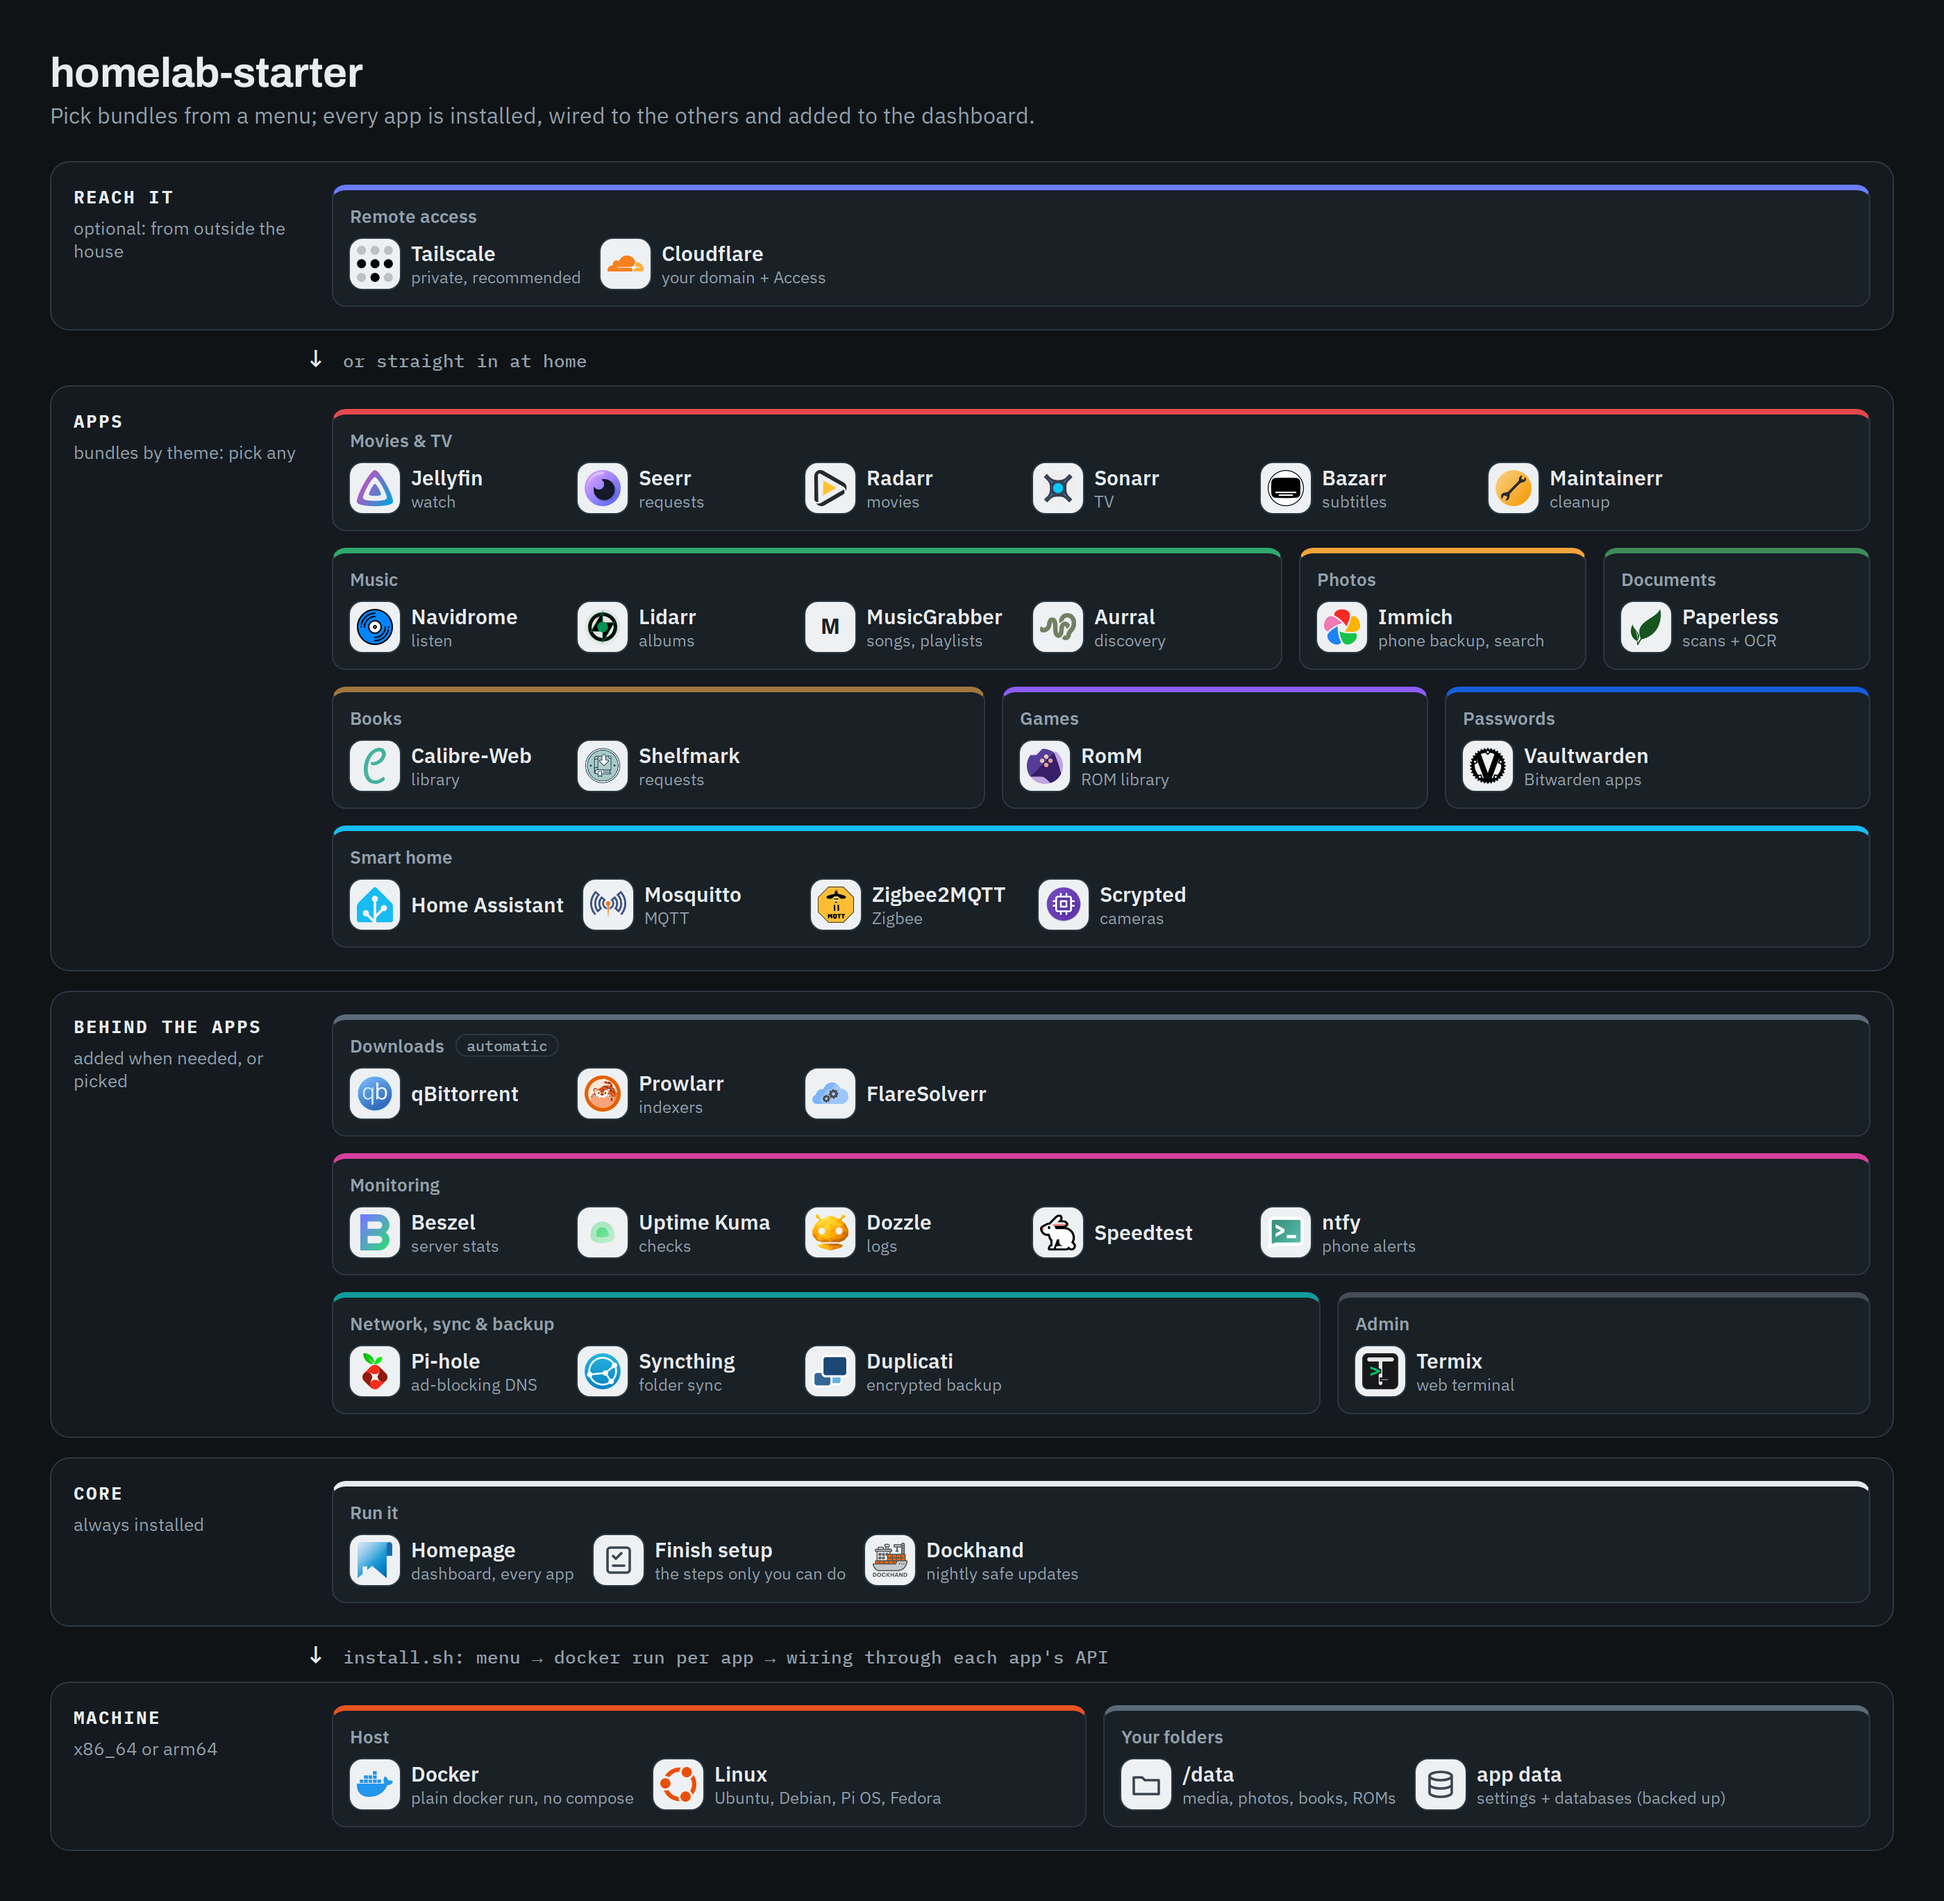
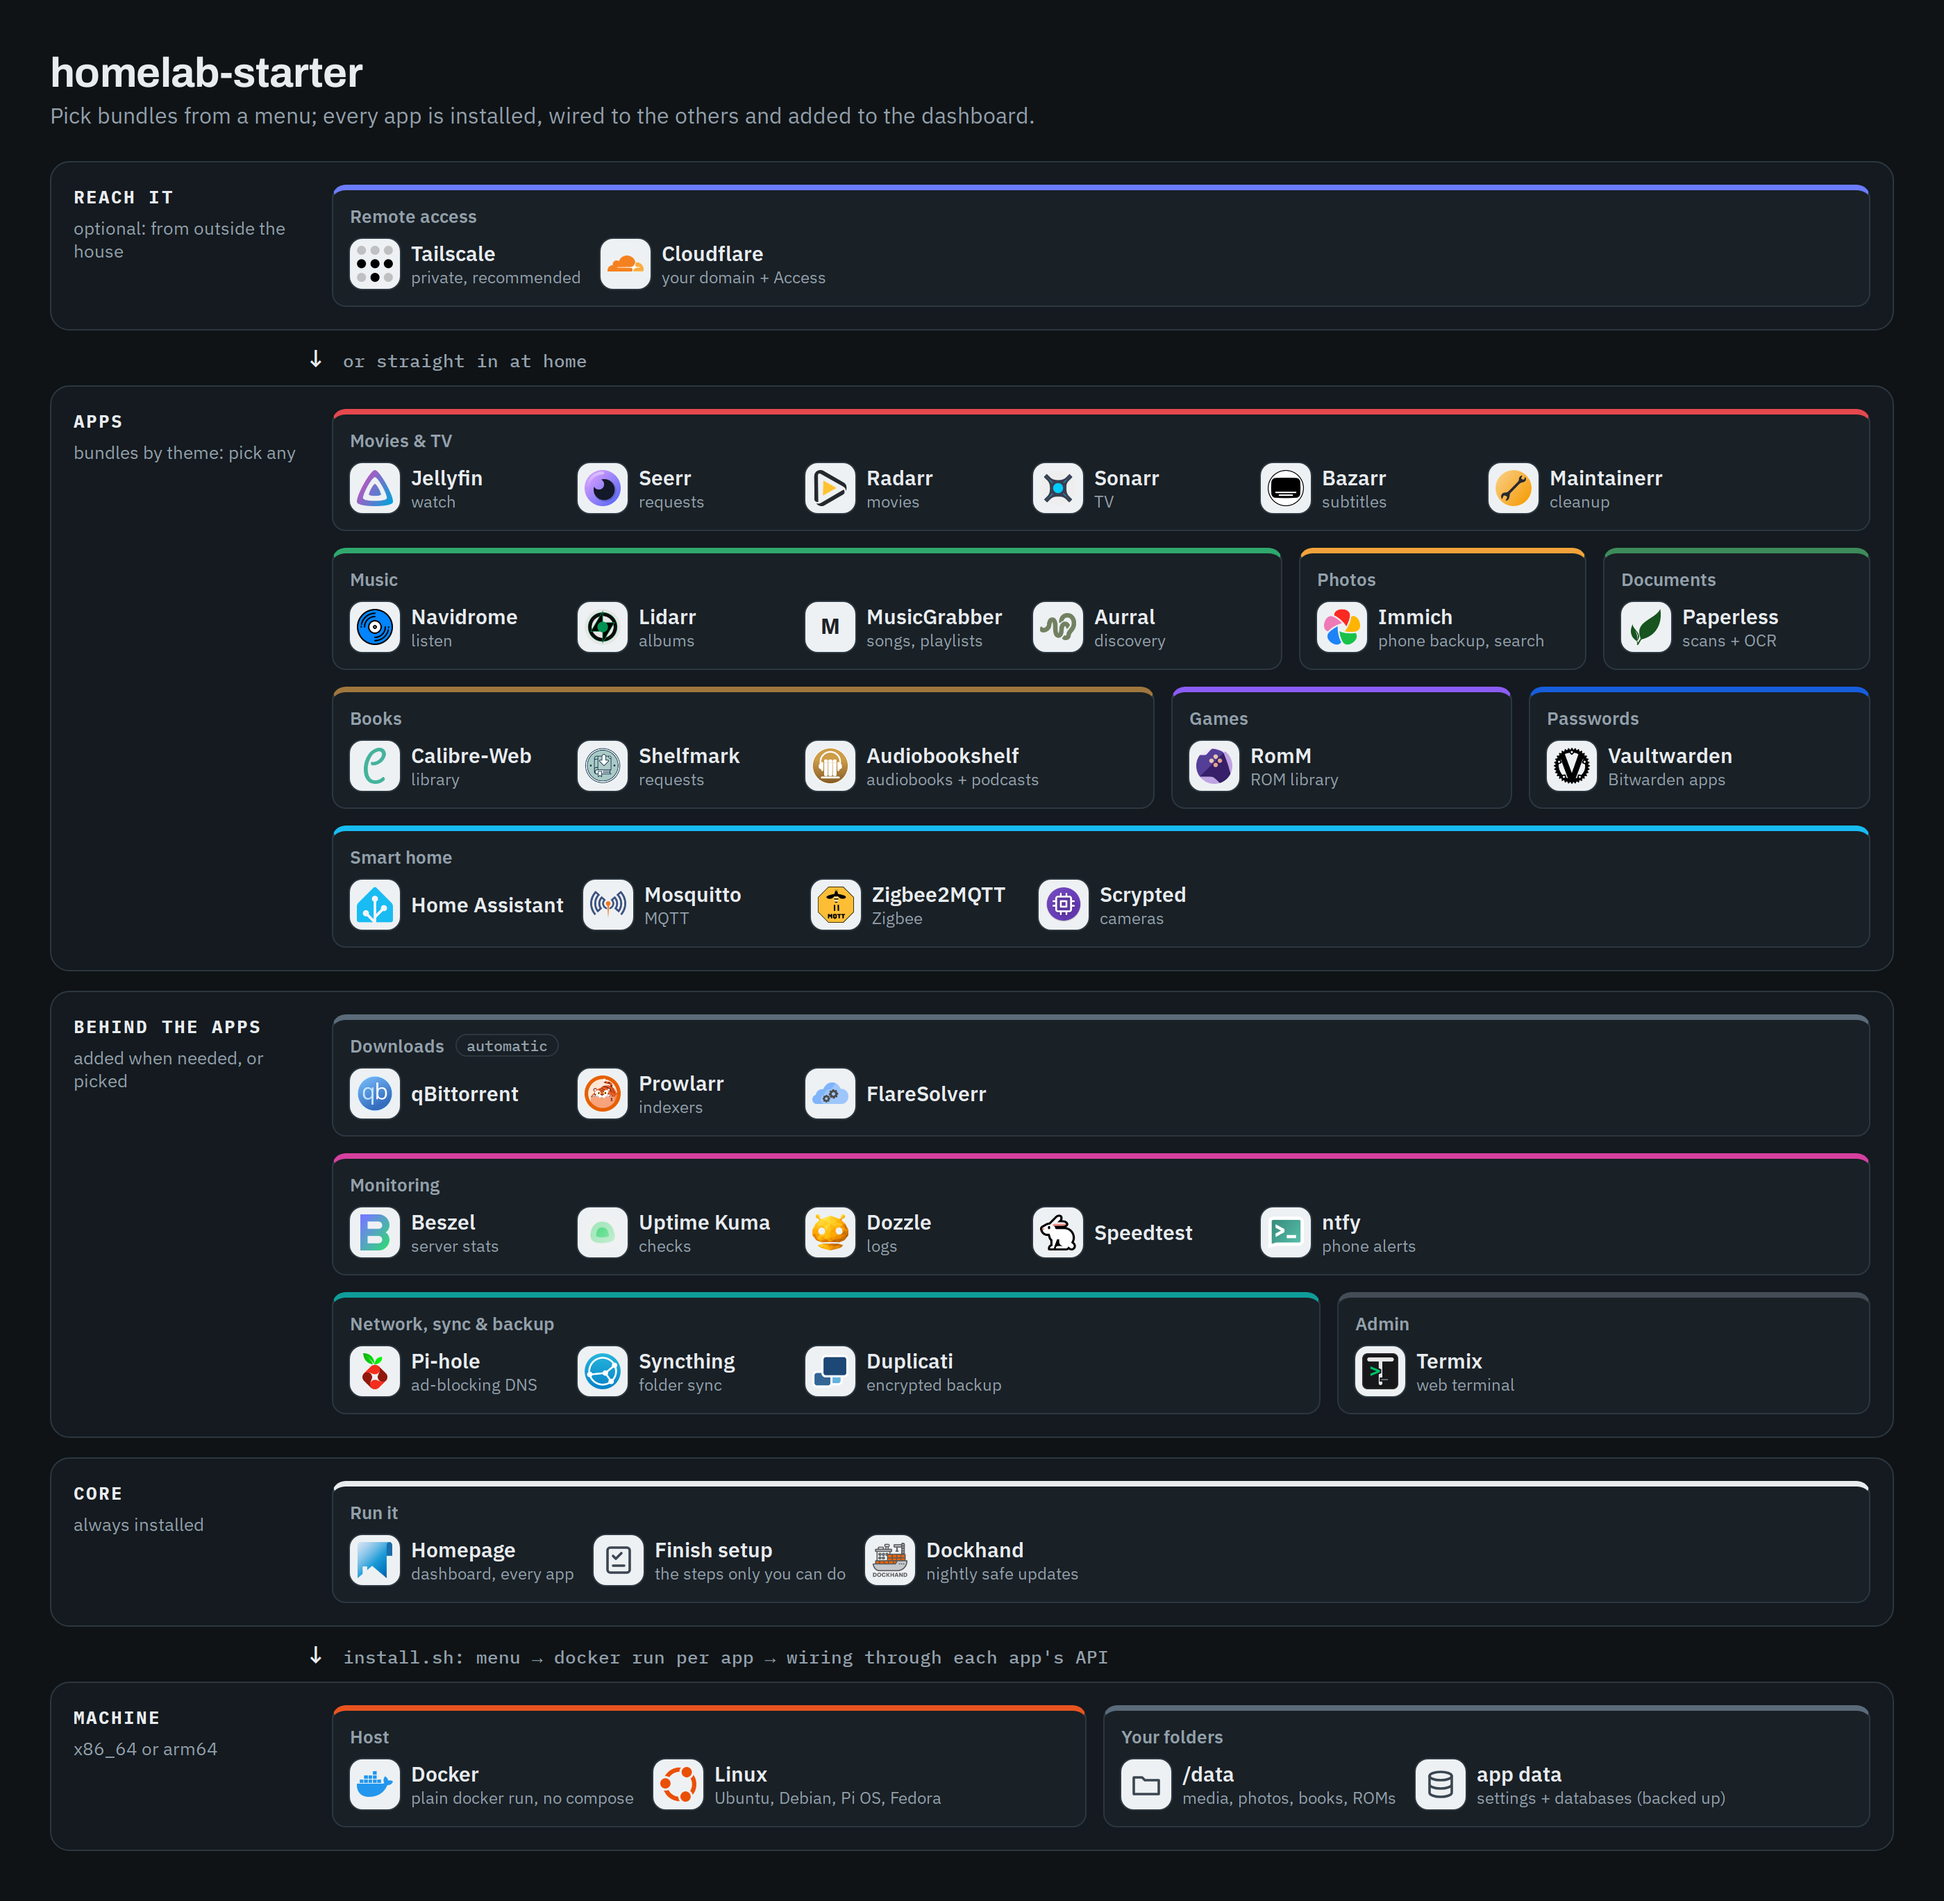
Audiobooks & podcasts bundle: Audiobookshelf
New bundle 'audiobooks' (175-audiobookshelf): DATA_AUDIOBOOKS / DATA_PODCASTS (default $DATA/audiobooks, $DATA/podcasts),
wiring creates the admin and an Audiobooks + a Podcasts library, folders kept under $DATA_MUSIC are added to Navidrome's
.ndignore, Duplicati skips its cache/streams/logs. README table + diagram.

Claude-Session: https://claude.ai/code/session_01VbVkPgrMEM92aAwtS942sv

Changed region(s): [[0.4039, 0.3725, 0.6525, 0.4346], [0.7457, 0.3415, 0.87, 0.4346]]

diff --git a/wire/audiobookshelf.py b/wire/audiobookshelf.py
@@ -1,0 +1,20 @@
+"""Audiobookshelf: create the admin (root) account on first start, then an Audiobooks and a Podcasts library."""
+from hsapi import E, req, wait, note, die
+B = 'http://localhost:13378'
+wait(B + '/healthcheck')
+code, st = req('GET', B + '/status')
+if not (st or {}).get('isInit'):
+    code, r = req('POST', B + '/init', {'newRoot': {'username': E['ADMIN_USER'], 'password': E['ADMIN_PASSWORD']}})
+    if code != 200: die(f'init -> HTTP {code}: {str(r)[:200]}')
+    note('admin account created')
+code, r = req('POST', B + '/login', {'username': E['ADMIN_USER'], 'password': E['ADMIN_PASSWORD']})
+if code != 200: note('admin password changed in the app: libraries left as they are'); raise SystemExit(0)
+u = r['user']; H = {'Authorization': 'Bearer ' + (u.get('accessToken') or u['token'])}
+code, libs = req('GET', B + '/api/libraries', headers=H)
+have = {l['name'] for l in (libs or {}).get('libraries', [])}
+for name, path, kind, icon in (('Audiobooks', E['DATA_AUDIOBOOKS'], 'book', 'audiobookshelf'),
+                               ('Podcasts', E['DATA_PODCASTS'], 'podcast', 'podcast')):
+    if name in have: continue
+    code, r = req('POST', B + '/api/libraries', {'name': name, 'folders': [{'fullPath': path}], 'icon': icon,
+                                                 'mediaType': kind, 'provider': 'itunes' if kind == 'podcast' else 'google'}, H)
+    note(f'library {name} -> {path}' if code == 200 else f'library {name}: HTTP {code} {str(r)[:150]}')

diff --git a/wire/duplicati.py b/wire/duplicati.py
@@ -13,7 +13,8 @@ if any(j['Backup']['Name'] == 'App settings' for j in jobs or []):
 pp = E.get('BACKUP_PASSPHRASE') or secrets.token_urlsafe(24)
 save_secret('BACKUP_PASSPHRASE', pp)
 src = '/source' + E['APPDATA'].rstrip('/') + '/'
-excl = ['paperless-db', 'immich-db', 'romm-db', 'jellyfin/cache', 'immich-ml', 'romm/redis', 'paperless-redis', 'immich-redis']
+excl = ['paperless-db', 'immich-db', 'romm-db', 'jellyfin/cache', 'immich-ml', 'romm/redis', 'paperless-redis', 'immich-redis',
+        'audiobookshelf/metadata/cache', 'audiobookshelf/metadata/streams', 'audiobookshelf/metadata/logs']
 start = (datetime.datetime.now() + datetime.timedelta(days=1)).replace(hour=4, minute=15, second=0, microsecond=0)
 body = {'Backup': {'Name': 'App settings', 'Description': 'homelab-starter: app settings + database dumps', 'Tags': [],
                    'TargetURL': 'file:///backups/homelab-starter', 'Sources': [src],

diff --git a/DESIGN.md b/DESIGN.md
@@ -107,6 +107,8 @@ preflight → install packages/Docker → create layout → generate secrets →
   KnownProxies set.
 - Seerr: initialised against Jellyfin + Radarr/Sonarr. Bazarr: Radarr/Sonarr + same-path mapping. Maintainerr: Jellyfin/Seerr/arrs.
 - Books: CWA library + ingest; Shelfmark → CWA ingest, Prowlarr, qBittorrent `books`.
+- Audiobooks & podcasts: Audiobookshelf; wiring creates the admin + an Audiobooks ($DATA_AUDIOBOOKS) and a Podcasts ($DATA_PODCASTS)
+  library; folders under $DATA_MUSIC are added to Navidrome's .ndignore.
 - Games: RomM + MariaDB (generated passwords), library folder, nightly DB dump cron.
 - Smart home: Home Assistant onboarding left to the user (needs their location/account), Mosquitto user created,
   Zigbee2MQTT → Mosquitto; HA MQTT integration pre-filled where possible.

diff --git a/README.md b/README.md
@@ -33,6 +33,7 @@ Generated passwords are in `CREDENTIALS.txt` in your app-data folder (`sudo cat`
 | Music | Lidarr (albums), Navidrome (streaming), MusicGrabber (songs/playlists), Aurral (discovery) | Downloads |
 | Photos | Immich: phone backup with face and object search | |
 | Books | Calibre-Web-Automated, Shelfmark (requests) | Downloads |
+| Audiobooks & podcasts | Audiobookshelf: listening progress synced across phone, web and car; new episodes download automatically | |
 | Games | RomM: a web library for your ROMs (no downloader) | |
 | Documents | Paperless-ngx: searchable archive with OCR | |
 | Passwords | Vaultwarden (Bitwarden-compatible) | HTTPS: Tailscale or Cloudflare |
